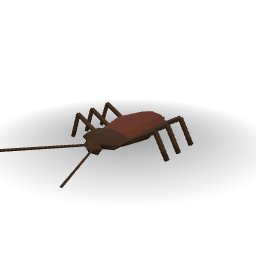
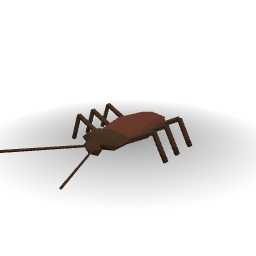
Insects batch 1: fix final review findings (mantis forelegs, flying tags, cockroach clearance, docs)

diff --git a/art/scripts/insects.py b/art/scripts/insects.py
@@ -1,4 +1,5 @@
-"""Insects and a spider for the wild (ladybug, bee, butterflies, dragonfly, beetle, ant, grasshopper, firefly, moth, spider, caterpillar). Flat faceted
+"""Insects and a spider for the wild (ladybug, bee, butterflies, dragonfly, beetle, ant, grasshopper, firefly, moth, spider, caterpillar, and the wider cast of
+issue #80: stink bug, housefly, mosquito, wasp, cockroach, cricket, praying mantis, earwig). Flat faceted
 models. The FBX is a resting pose (not rigged). For the web viewer, insect_anim.py rigs each one from the moving parts marked here (wings, legs,
 antennae, caterpillar segments: `moving()`), and gives it Idle plus Fly, Walk, Hop or the ladybug's Open clips; see build_rigged().
 
@@ -492,13 +493,13 @@ def cockroach():
     """An American cockroach (about 35 mm): a flat reddish-brown oval body with a shield-like pronotum, a small head, spiny legs and antennae as long as the body."""
     p = new("GN_Cockroach_01")
     p.motion = "walk"
-    blob(p, "rust_dark", (0, 2.4, 3.4), (7.0, 14.4, 3.4), n=8, rings=3)                     # the wings, folded over the abdomen
-    blob(p, "dark_brown", (0, -10.0, 3.9), (7.0, 4.2, 2.5), n=8, rings=2)                   # the pronotum
-    blob(p, "dark_brown", (0, -15.2, 3.4), (3.0, 2.4, 2.3), n=6, rings=1)                   # the head
+    blob(p, "rust_dark", (0, 2.4, 4.0), (7.0, 14.4, 3.0), n=8, rings=3)                     # the wings, folded over the abdomen
+    blob(p, "dark_brown", (0, -10.0, 4.3), (7.0, 4.2, 2.5), n=8, rings=2)                   # the pronotum
+    blob(p, "dark_brown", (0, -15.2, 3.7), (3.0, 2.4, 2.3), n=6, rings=1)                   # the head
     for s in (-1, 1):
-        p.box("dark_brown", (s * 1.5, 15.4, 2.8), (0.9, 2.8, 0.9))                         # the cerci at the tail
-    legs(p, "dark_brown", 5.2, (-7.2, -1.2, 6.0), 3.4, 10.5, 4.0, 1.0, dy=1.8)
-    antennae(p, "dark_brown", (1.2, -16.0, 3.8), (9.0, -38.0, 6.5), 0.45)
+        p.box("dark_brown", (s * 1.5, 15.4, 3.4), (0.9, 2.8, 0.9))                         # the cerci at the tail
+    legs(p, "dark_brown", 4.8, (-7.2, -1.2, 6.0), 4.0, 10.5, 3.6, 1.0, dy=1.8)
+    antennae(p, "dark_brown", (1.2, -16.0, 4.1), (9.0, -38.0, 6.8), 0.45)
     return p
 
 
@@ -535,8 +536,8 @@ def mantis():
     for s in (-1, 1):
         ball_at(p, "black", (s * 3.6, -25.5, 13.0), 1.5, n=5)                               # the big eyes
         p.box("leaf_dark", (s * 1.6, 8.0, 11.8), (1.8, 30.0, 0.6), rot=(0, s * 8, 0))      # the wing covers
-        rod(p, "plant_green", (s * 2.0, -18.0, 10.0), (s * 3.2, -24.0, 12.5), 1.5)           # the raptorial foreleg: the femur held forward,
-        rod(p, "plant_green", (s * 3.2, -24.0, 12.5), (s * 2.6, -17.0, 9.0), 1.1)            # the tibia folded back under it
+        rod(p, "plant_green", (s * 2.2, -14.0, 10.5), (s * 4.4, -26.5, 13.0), 2.2)           # the raptorial foreleg: the big femur held forward,
+        rod(p, "plant_green", (s * 4.4, -26.5, 13.0), (s * 3.6, -15.0, 9.4), 1.6)            # the tibia folded back under it
     legs(p, "plant_green", 1.8, (-2.0, 8.0), 8.5, 9.0, 6.0, 1.0, dy=1.5)
     antennae(p, "plant_green", (1.0, -25.5, 13.5), (3.0, -32.0, 18.0), 0.3)
     return p

diff --git a/tools/catalog.py b/tools/catalog.py
@@ -306,10 +306,10 @@ _a("GN_Grasshopper_01", "Grasshopper", "animals/insect/grasshopper", "wild field
 _a("GN_Caterpillar_01", "Caterpillar", "animals/insect/caterpillar", "wild garden insect bug green larva")
 _a("GN_Spider_01", "Spider", "animals/arachnid/spider", "wild cellar barn bug arachnid brown eight-legs")
 _a("GN_StinkBug_01", "Stink bug", "animals/insect/stink-bug", "wild garden insect bug brown tiny")
-_a("GN_Housefly_01", "Housefly", "animals/insect/fly", "wild house insect bug fly grey tiny")
-_a("GN_Mosquito_01", "Mosquito", "animals/insect/mosquito", "wild insect bug mosquito grey tiny")
-_a("GN_Wasp_01", "Wasp", "animals/insect/wasp", "wild garden insect bug yellow black tiny")
-_a("GN_Cockroach_01", "Cockroach", "animals/insect/cockroach", "wild house insect bug brown tiny")
+_a("GN_Housefly_01", "Housefly", "animals/insect/fly", "wild house insect bug fly grey tiny flying")
+_a("GN_Mosquito_01", "Mosquito", "animals/insect/mosquito", "wild insect bug mosquito grey tiny flying")
+_a("GN_Wasp_01", "Wasp", "animals/insect/wasp", "wild garden insect bug yellow black tiny flying")
+_a("GN_Cockroach_01", "Cockroach", "animals/insect/cockroach", "wild house insect bug brown")
 _a("GN_Cricket_01", "Cricket", "animals/insect/cricket", "wild garden insect bug brown tiny")
 _a("GN_Mantis_01", "Praying mantis", "animals/insect/mantis", "wild garden insect bug green")
 _a("GN_Earwig_01", "Earwig", "animals/insect/earwig", "wild garden insect bug brown tiny")

diff --git a/NOTES.md b/NOTES.md
@@ -219,3 +219,4 @@ Fable final review: no blocking findings, 4 low ones, fixed in a fourth commit: 
 Issue #80 (the cast comes from the game Grounded, found by a web search; the comment on #80 lists the creatures and what is missing). Eight new rigged insects in `art/scripts/insects.py` (`StinkBug`, `Housefly`, `Mosquito`, `Wasp`, `Cockroach`, `Cricket`, `Mantis`, `Earwig`), added to the `insects` group in `tools/catalog.py` and built with `build_site_assets.py` (`GROUPS=["insects"]`, `ONLY=[...]` the eight keys), 300 to 530 triangles each, clips Idle plus Walk, Fly or Hop. Area names for the colour parts are in `art/data/part_names.json`. Brief: `docs/assets/briefs/insects-2.md`.
 **Built and looked at:** all eight built in Blender 5.2.3 with their clips (the build lists the clips; the animations themselves were not played), bounding boxes read from the build facts (feet at z = 0 within 0.4 mm), the eight thumbnails viewed in one sheet. **Not done:** playing the clips in the site viewer, `audit.py`, a check of the sizes against specimens. The rest of the list (aphid, beetles, arachnids, centipede, millipede, grub, snail, bumblebee, hornet, gnat) is in the brief and on #80.
 Opus first review (it read the GLBs with its own glTF reader and measured the gaps between parts): 15 findings, fixed in a second commit: the mantis had six walking legs plus the forelegs (now two pairs of walking legs), its tibiae pointed forward past the head (now folded back under the femur) and its head and prothorax floated off the abdomen (the prothorax now runs from the head to the abdomen); the housefly and wasp wings floated 0.5 to 1 mm above the thorax, the earwig legs and pincers, the cricket front legs and antennae and every antenna base were 0.1 to 0.9 mm outside the body (moved in), the cockroach cerci floated; sizes: the mosquito was 80% over its 6 mm (scaled to 0.6), the housefly and earwig 30% over (scaled to 0.8), the cockroach 20% under (scaled to 1.2, its antennae now as long as its body); the README count and range and the brief wording. Not changed: the wings of the fly and mosquito stand out sideways instead of folding back over the abdomen (the honeybee's existing style), the housefly's hind legs and the mantis's last pair attach to the abdomen, the cricket has no cerci, the build groups (`beetles`, `hoppers`) of the stink bug, cockroach, earwig and mantis only matter for the `INSECT_LIST` filter.
+Fable final review: nothing blocking, 8 findings, fixed in a third commit: the mantis's raptorial forelegs were half their real size (the femur is now 13 mm, 2.2 mm wide, the tibia folded back under it), the housefly, mosquito and wasp lost no `flying` tag (added) and the cockroach lost `tiny`, the earwig is 14 mm in the brief, the module docstring lists the new insects, the cockroach's belly now stands 1 mm clear of the floor (the Walk bob no longer sinks it), and the mantis note (both walking pairs attach to the abdomen, not only the last). Not changed: wing roots touch the thorax only at the midline (invisible at these scales), femurs 0.03 to 0.1 mm off the faceted surface of the cockroach and earwig, the Fly and Hop clips' fixed body bob (older code).

diff --git a/docs/assets/briefs/insects-2.md b/docs/assets/briefs/insects-2.md
@@ -11,7 +11,7 @@ The list comes from the creatures of the game Grounded and Grounded 2 (see the c
 | Cockroach (`GN_Cockroach_01`) | American cockroach, about 35 mm: flat reddish-brown oval, shield-like pronotum, very long antennae, cerci | Idle, Walk |
 | Cricket (`GN_Cricket_01`) | house cricket, about 20 mm: big head, folded wings, two big jumping hind legs, very long thin antennae | Idle, Hop |
 | Praying mantis (`GN_Mantis_01`) | about 60 mm: long green body, triangular head with big eyes, folded raptorial forelegs, two pairs of walking legs | Idle, Walk |
-| Earwig (`GN_Earwig_01`) | about 15 mm: slim dark brown body, reddish head and pronotum, curved pincers at the tail | Idle, Walk |
+| Earwig (`GN_Earwig_01`) | about 14 mm without the pincers: slim dark brown body, reddish head and pronotum, curved pincers at the tail | Idle, Walk |
 
 ## Known limits
 Plain blobs and rods (flat faceted style); the flyers' legs do not move, the walkers' legs are three simple jointed rods, the mantis's raptorial forelegs are static (the walk clip moves its two pairs of walking legs), the fly and mosquito wings are single flat ellipses and the wasp has two ellipses a side. Sizes were taken from the usual field-guide lengths, not measured on a specimen.
